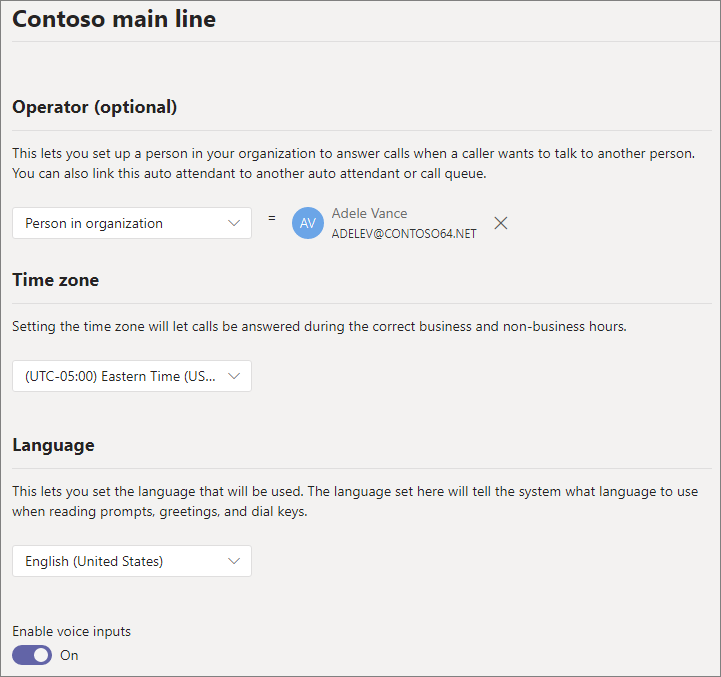
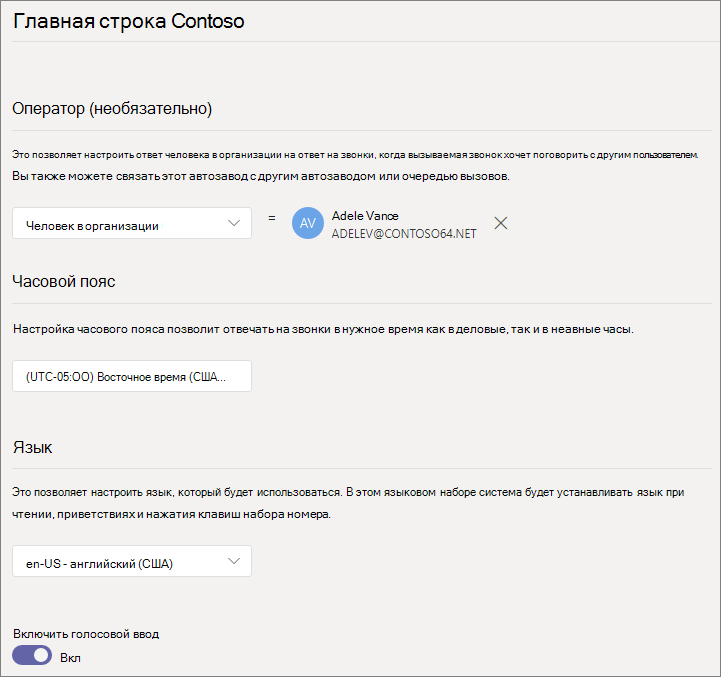
commit translated contents

diff --git a/Teams/country-and-region-availability-for-audio-conferencing-and-calling-plans/country-and-region-availability-for-audio-conferencing-and-calling-plans.md b/Teams/country-and-region-availability-for-audio-conferencing-and-calling-plans/country-and-region-availability-for-audio-conferencing-and-calling-plans.md
@@ -26,12 +26,12 @@ ms.custom:
 - LIL_Placement
 - seo-marvel-mar2020
 description: Узнайте, доступны ли в стране или регионе аудиоконференции, телефонная система, планы звонков, кредиты на связь, а также платные и бесплатные номера телефонов.
-ms.openlocfilehash: 3890fa79173dd6327830cc995bf41d79a0b2dde0
-ms.sourcegitcommit: 2c9ce2e3e4c3f1e3bfe317daa4fed5033d65876b
+ms.openlocfilehash: 099548bc9b88293dcb1fcc0acddd49ac295ab56e
+ms.sourcegitcommit: 112df406ae2c127cd9b5f717c1b43b11784b592d
 ms.translationtype: MT
 ms.contentlocale: ru-RU
-ms.lasthandoff: 06/10/2021
-ms.locfileid: "52873826"
+ms.lasthandoff: 06/22/2021
+ms.locfileid: "53069371"
 ---
 # <a name="country-and-region-availability-for-audio-conferencing-and-calling-plans"></a>Доступность аудиоконференций и планов звонков в различных странах и регионах
 
@@ -157,7 +157,7 @@ ms.locfileid: "52873826"
 > - [Венесуэла](availability-in-venezuela.md)
 > - [Вьетнам](availability-in-vietnam.md)
 
-Если вы ищете таблицу для всех стран и регионов, скачайте и сохраните таблицу Доступность облачных голосовых функций в странах и **[регионах.](https://download.microsoft.com/download/d/b/6/db6992c5-ec9a-4b02-8742-59df17dd90a7/country-and-region-availability-(v-05252021)-(en-us).xlsx)**
+Если вы ищете таблицу со всеми страными и регионами, скачайте и сохраните таблицу доступность облачных голосовых функций в странах и **[регионах.](https://download.microsoft.com/download/d/b/6/db6992c5-ec9a-4b02-8742-59df17dd90a7/country-and-region-availability-(v-06162021)-(en-us).xlsx)**
 
 ***
 
@@ -187,15 +187,15 @@ ms.locfileid: "52873826"
 В аудиоконференциях функция *"Позвонить* мне" используется для того, чтобы позволить другим людям присоединяться к собранию с телефонным звоном. С помощью списка в этой статье вы можете найти страну или регион и узнать, доступна ли эта функция.
 
 > [!CAUTION]
-> Звонок на бесплатные или бесплатные номера телефонов может быть невозможен, так как некоторые бесплатные номера работают только в пределах определенной страны или региона. Например, если вы звоните из США на бесплатный номер в Бразилии, звонок может быть не успешен, так как звонок был не из Бразилии или не из определенного региона в Бразилии. Возможность звонить на бесплатные номера зависит от ограничений на набор бесплатных номеров. К сожалению, мы не можем контролировать такое поведение, поэтому ваш опыт может зависеть от набра номера и ограничений на бесплатный номер.
+> Звонок на бесплатные или бесплатные номера телефонов может быть невозможен, так как некоторые бесплатные номера работают только в пределах определенной страны или региона. Например, если вы звоните из США на бесплатный номер в Бразилии, звонок может быть не успешным, так как звонок был не из Бразилии или не из определенного региона в Бразилии. Возможность звонить на бесплатные номера зависит от ограничений на набор бесплатных номеров. К сожалению, мы не можем контролировать такое поведение, поэтому ваш опыт может зависеть от набра номера и ограничений на бесплатный номер.
   
 Вы можете звонить из собрания в другую страну или регион в мире, который не указан ниже, с помощью кредитов [на связь.](../what-are-communications-credits.md) Для этих пользователей потребуется настроить кредиты на связь [для вашей организации.](../set-up-communications-credits-for-your-organization.md)
   
 ### <a name="phone-system"></a>Телефонная система
 
-С телефонная система для ответа на входящие звонки для вашей организации создаются автоответы и очереди звонков (с платным или бесплатным номером). При добавлении плана звонков для пользователей они могут использовать Skype для бизнеса для выполнения основных задач управления звонками, таких как выполнение и прием звонков, переключение звонков, отключение и отключение сигнала. **телефонная система** щелкнуть имя в адресной книге, Skype для бизнеса позвонит этому человеку. Чтобы принимать и принимать **звонки,** телефонная система используют свои мобильные устройства, гарнитуру с ноутбуком или компьютером или один из многих IP-телефонов, которые работают с Skype для бизнеса.
+С телефонная система для ответа на входящие звонки для вашей организации создаются автоответы и очереди звонков (с платным или бесплатным номером). При добавлении плана звонков пользователи могут использовать Skype для бизнеса для выполнения основных задач управления звонками, таких как размещение и прием звонков, переключение звонков, отключение и отключение сигнала. **телефонная система** щелкнуть имя в адресной книге, Skype для бизнеса позвонит этому человеку. Чтобы принимать и **принимать** звонки, телефонная система используют свои мобильные устройства, гарнитуру с ноутбуком или компьютером или один из многих IP-телефонов, которые работают с Skype для бизнеса.
 
-> Доступность платных телефонных номеров в некоторых из этих регионов может различаться в зависимости от времени и уровня их использования. Помимо получения номеров телефонов для отдельных пользователей, вы также можете искать и получать платные или бесплатные номера телефонов для таких служб, как аудиоконференции (для моста конференц-связи), автозаполнение и очереди звонков. Это так называемые сервисные номера. См. [Получение телефонных номеров службы](../getting-service-phone-numbers.md) для получения телефонных номеров. Своим пользователям после назначения плана звонков можно назначить номера телефонов, чтобы они могли совершать и принимать телефонные звонки. Чтобы найти эти телефонные номера, перейдите к разделу [Получение телефонных номеров для ваших пользователей](../getting-phone-numbers-for-your-users.md). См. также статью [Назначение, изменение или удаление номера телефона пользователя](../assign-change-or-remove-a-phone-number-for-a-user.md).
+> Доступность платных телефонных номеров в некоторых из этих регионов может различаться в зависимости от времени и уровня их использования. Помимо получения номеров телефонов для отдельных пользователей, вы также можете искать и получать платные или бесплатные номера телефонов для таких служб, как аудиоконференции (для моста конференций), автозаполнение и очереди звонков. Это так называемые сервисные номера. См. [Получение телефонных номеров службы](../getting-service-phone-numbers.md) для получения телефонных номеров. Своим пользователям после назначения плана звонков можно назначить номера телефонов, чтобы они могли совершать и принимать телефонные звонки. Чтобы найти эти телефонные номера, перейдите к разделу [Получение телефонных номеров для ваших пользователей](../getting-phone-numbers-for-your-users.md). См. также статью [Назначение, изменение или удаление номера телефона пользователя](../assign-change-or-remove-a-phone-number-for-a-user.md).
 
 [Тарифы для телефонной системы](https://products.office.com/skype-for-business/phone-system#Requirements)
 
@@ -206,7 +206,7 @@ ms.locfileid: "52873826"
 
 ### <a name="calling-plans"></a>Планы звонков
 
-Наряду с телефонной системой планы звонков позволяют пользователям совершать и принимать телефонные звонки. Сначала вы получите номер телефона пользователя (абонента), который не должен быть номером службы, и назначьте план звонков. Доступны два типа планов звонков: **внутренние звонки** и **внутренние и международные звонки**. См. [Телефонная система и тарифные планы](../calling-plan-landing-page.md) для более подробной информации.
+Наряду с телефонной системой планы звонков позволяют пользователям совершать и принимать телефонные звонки. Сначала вы получите номер телефона пользователя (абонента), который не должен быть номером службы, а затем назначьте план звонков. Доступны два типа планов звонков: **внутренние звонки** и **внутренние и международные звонки**. См. [Телефонная система и тарифные планы](../calling-plan-landing-page.md) для более подробной информации.
 
 Для получения информации о лицензировании вы также можете просмотреть [Лицензирование телефонных систем и Планов вызовов](../teams-add-on-licensing/microsoft-teams-add-on-licensing.md).
 
@@ -217,9 +217,9 @@ ms.locfileid: "52873826"
 
 Помимо получения номеров телефонов для отдельных пользователей, вы также можете искать и получать платные или бесплатные номера телефонов для таких служб, как аудиоконференции (для моста конференц-связи), автозаполнение и очереди звонков. Такие номера называют номерами служб.
   
-Ниже приведен список столиц и крупных городов, для которых можно получить платные номера служб, чтобы использовать их для аудиоконференций и планов звонков. Вы можете получить платные номера служб из этих мест с помощью **центра Skype для бизнеса администрирования**.
+Ниже приведен список столиц и крупных городов, для которых можно получить платные номера служб, чтобы использовать их для аудиоконференций и планов звонков. Вы можете получить платные номера служб из этих мест с **помощью Skype для бизнеса администрирования**.
   
-Если вы хотите получить платный или бесплатный номер службы, см. статью [Получение номеров телефонов службы.](../getting-service-phone-numbers.md) Если у вас уже есть платный или бесплатный номер службы, который вы хотите перенести от другого поставщика, см. управление номерами телефонов [для организации.](../manage-phone-numbers-for-your-organization/manage-phone-numbers-for-your-organization.md)
+Если вы хотите получить платный или бесплатный номер службы, см. статью [Получение номеров телефонов службы.](../getting-service-phone-numbers.md) Если у вас уже есть платный или бесплатный номер службы, который вы хотите перенести от другого поставщика услуг, см. управление номерами телефонов [для организации.](../manage-phone-numbers-for-your-organization/manage-phone-numbers-for-your-organization.md)
 
 Используйте раскрывающийся список в верхней части страницы для поиска страны или региона и доступных в них служб.
 

diff --git a/Teams/direct-routing-enable-users.md b/Teams/direct-routing-enable-users.md
@@ -16,12 +16,12 @@ appliesto:
 f1.keywords:
 - NOCSH
 description: Узнайте, как включить для Телефон (Майкрософт) прямой маршрутии Системы.
-ms.openlocfilehash: 858b9073106945d414c2dbe56a16e6cecd104ee7
-ms.sourcegitcommit: 01087be29daa3abce7d3b03a55ba5ef8db4ca161
+ms.openlocfilehash: 7d2b7c4b5d6268d1498a47537e0edbbf892198aa
+ms.sourcegitcommit: cae94cd5761baafde51aea1137e6d164722eead9
 ms.translationtype: MT
 ms.contentlocale: ru-RU
-ms.lasthandoff: 03/23/2021
-ms.locfileid: "51122223"
+ms.lasthandoff: 06/23/2021
+ms.locfileid: "53075372"
 ---
 # <a name="enable-users-for-direct-routing-voice-and-voicemail"></a>Включить для пользователей прямую маршрутику, голосовую и голосовую почту
 
@@ -29,11 +29,11 @@ ms.locfileid: "51122223"
 
 - Шаг 1. [Подключение SBC с Телефон (Майкрософт) и проверьте подключение](direct-routing-connect-the-sbc.md) 
 - **Шаг 2. Включить для пользователей прямую маршрутику, голосовую и голосовую почту**   (эта статья)
-- Шаг 3. [Настройка перенастройки голосовой маршрутии](direct-routing-voice-routing.md)
+- Шаг 3. [Настройка голосовой маршрутии](direct-routing-voice-routing.md)
 - Шаг 4. [Перевод чисел в альтернативный формат](direct-routing-translate-numbers.md) 
 
 
-Сведения о всех действиях, необходимых для настройки прямой маршрутии, см. в этой [ссылке.](direct-routing-configure.md)
+Сведения о всех действиях, необходимых для настройки прямой маршрутистики, см. в этой [ссылке.](direct-routing-configure.md)
 
 Когда вы будете готовы включить прямую маршрутику для пользователей, выполните следующие действия: 
 
@@ -47,15 +47,15 @@ ms.locfileid: "51122223"
 Существует два варианта создания нового пользователя в Microsoft 365 или Office 365. Однако корпорация Майкрософт рекомендует вашей организации выбрать один из вариантов, чтобы избежать проблем с маршрутией: 
 
 - Создайте пользователя в локальной службе Active Directory и синхронизируйте его с облаком. См. [интеграцию локального каталога с Azure Active Directory.](/azure/active-directory/connect/active-directory-aadconnect)
-- Создайте пользователя непосредственно в Microsoft 365 администрирования. См. добавление пользователей по отдельности или массово [в Microsoft 365 или Office 365 — справка для администраторов.](https://support.office.com/article/Add-users-individually-or-in-bulk-to-Office-365-Admin-Help-1970f7d6-03b5-442f-b385-5880b9c256ec) 
+- Создайте пользователя непосредственно в Центр администрирования Microsoft 365. См. добавление пользователей по отдельности или массово [в Microsoft 365 или Office 365 — справка для администраторов.](https://support.office.com/article/Add-users-individually-or-in-bulk-to-Office-365-Admin-Help-1970f7d6-03b5-442f-b385-5880b9c256ec) 
 
 Если развертывание Skype для бизнеса Online сосуществовает с локальной Skype для бизнеса 2015 или Lync 2010 или 2013, единственным вариантом является создание пользователя в локальной службе Active Directory и синхронизация пользователя с облаком (вариант 1). 
 
 Сведения о требованиях к лицензиям см. [в лицензировании](direct-routing-plan.md#licensing-and-other-requirements) и других требованиях в [области Планирование прямой маршрутии.](direct-routing-plan.md)
 
-## <a name="ensure-that-the-user-is-homed-online-and-phone-number-is-not-being-synced-from-on-premises-applicable-for-skype-for-business-server-enterprise-voice-enabled-users-being-migrated-to-teams-direct-routing"></a>Убедитесь, что пользователь находится в Сети и телефонные номера не синхронизируются из локальной сети (применимо для пользователей, Skype для бизнеса Server Корпоративная голосовая связь пользователей, переносимых на Teams Direct Routing)
+## <a name="ensure-that-the-user-is-homed-online-and-phone-number-is-not-being-synced-from-on-premises-applicable-for-skype-for-business-server-enterprise-voice-enabled-users-being-migrated-to-teams-direct-routing"></a>Убедитесь, что пользователь находится в Сети и телефонные номера не синхронизируются из локальной сети (применимо для пользователей Skype для бизнеса Server Корпоративная голосовая связь с поддержкой переноса в Teams Direct Routing)
 
-Прямая маршрутная маршрутия требует, чтобы пользователь был домашним в Интернете. Чтобы проверить это, обратитесь к параметру RegistrarPool, который должен иметь значение в infra.lync.com домене. Для параметра OnPremLineUriManuallySet также должно быть задано true. Для этого нужно настроить номер телефона и включить корпоративную голосовую и голосовую почту Skype для бизнеса PowerShell.
+Прямая маршрутная маршрутия требует, чтобы пользователь был домашним в Интернете. Чтобы проверить это, обратитесь к параметру RegistrarPool, который должен иметь значение в infra.lync.com домене. Для параметра OnPremLineUriManuallySet также должно быть задано true. Для этого нужно настроить номер телефона и включить корпоративную голосовую и голосовую почту с Skype для бизнеса PowerShell.
 
 1. Подключение сеанс Skype для бизнеса Online PowerShell.
 
@@ -71,7 +71,7 @@ ms.locfileid: "51122223"
    ```PowerShell
    Set-CsUser -Identity "<User name>" -LineUri $null -EnterpriseVoiceEnabled $False -HostedVoiceMail $False
     ``` 
-   После синхронизации изменений с Office 365 ожидаемым `Get-CsOnlineUser -Identity "<User name>" | fl RegistrarPool,OnPremLineUriManuallySet,OnPremLineUri,LineUri` выходом будут:
+   После синхронизации изменений с Office 365 ожидаемым `Get-CsOnlineUser -Identity "<User name>" | fl RegistrarPool,OnPremLineUriManuallySet,OnPremLineUri,LineUri` выходом будет:
 
    ```console
    RegistrarPool                        : pool.infra.lync.com
@@ -99,11 +99,11 @@ ms.locfileid: "51122223"
     ```PowerShell
     Set-CsUser -Identity "spencer.low@contoso.com" -OnPremLineURI tel:+14255388797 -EnterpriseVoiceEnabled $true -HostedVoiceMail $true
     ```
-    Если у пользователей "Низкий" и "Стейси Квинн" одинаковые базовые номера с уникальными расширениями, введите следующее:
+    Если у пользователей "Низкий уровень" и "Стейси Квинн" одинаковые базовые номера с уникальными расширениями, введите следующее:
     
     ```PowerShell
-    Set-CsUser -Identity "spencer.low@contoso.com" -OnPremLineURI tel:+14255388701;ext=1001 -EnterpriseVoiceEnabled $true -HostedVoiceMail $true
-    Set-CsUser -Identity "stacy.quinn@contoso.com" -OnPremLineURI tel:+14255388701;ext=1002 -EnterpriseVoiceEnabled $true -HostedVoiceMail $true
+    Set-CsUser -Identity "spencer.low@contoso.com" -OnPremLineURI "tel:+14255388701;ext=1001" -EnterpriseVoiceEnabled $true -HostedVoiceMail $true
+    Set-CsUser -Identity "stacy.quinn@contoso.com" -OnPremLineURI "tel:+14255388701;ext=1002" -EnterpriseVoiceEnabled $true -HostedVoiceMail $true
     ```
 
     Рекомендуется, но не обязательно, чтобы используемый номер телефона был настроен как полный номер телефона E.164 с кодом страны. Поддерживается настройка номеров телефонов с расширениями, которые будут использоваться для искомых пользователей, если при подступе к базовому номеру возвращается несколько результатов. Это позволяет компаниям настраивать номера телефонов с одинаковым базовым номером и уникальными расширениями. Для успешного подстроки в приглашении должно быть включено полное число с расширением:
@@ -117,7 +117,7 @@ ms.locfileid: "51122223"
 
 ## <a name="configuring-sending-calls-directly-to-voicemail"></a>Настройка отправки звонков непосредственно на голосовую почту
 
-Прямая маршрутия позволяет прекратить звонок пользователю и отправить его непосредственно в голосовую почту пользователя. Если вы хотите отправить звонок непосредственно в голосовую почту, вложите непрозрачной=app:voicemail в заглавный URI запроса. Например, "sip:user@yourdomain.com;opaque=app:voicemail". В этом случае Teams не получит уведомление о вызове, звонок будет напрямую подключен к голосовой почте пользователя.
+Прямая маршрутия позволяет прекратить звонок и отправить его непосредственно в голосовую почту пользователя. Если вы хотите отправить звонок непосредственно в голосовую почту, вложите непрозрачной=app:voicemail в заглавный URI запроса. Например, "sip:user@yourdomain.com;opaque=app:voicemail". В этом случае Teams не получит уведомление о вызове, звонок будет напрямую подключен к голосовой почте пользователя.
 
 ## <a name="assign-teams-only-mode-to-users-to-ensure-calls-land-in-microsoft-teams"></a>Назначьте Teams режим только пользователям, чтобы обеспечить доступ к звонкам Microsoft Teams
 

diff --git a/Teams/reset-the-audio-conferencing-pin-in-teams.md b/Teams/reset-the-audio-conferencing-pin-in-teams.md
@@ -22,18 +22,18 @@ ms.custom:
 - Audio Conferencing
 - seo-marvel-apr2020
 description: Узнайте, как сбросить ПИН-код аудиоконференции пользователя в Microsoft Teams и узнать важные сведения о ПИН-кодах.
-ms.openlocfilehash: 7ea380fbeb722337eaec598823b12dbe18f49918
-ms.sourcegitcommit: 01087be29daa3abce7d3b03a55ba5ef8db4ca161
+ms.openlocfilehash: ece69ec231408cc860f2fad803d92d22feaca781
+ms.sourcegitcommit: cae94cd5761baafde51aea1137e6d164722eead9
 ms.translationtype: MT
 ms.contentlocale: ru-RU
-ms.lasthandoff: 03/23/2021
-ms.locfileid: "51117637"
+ms.lasthandoff: 06/23/2021
+ms.locfileid: "53075382"
 ---
 # <a name="reset-the-audio-conferencing-pin-in-microsoft-teams"></a>Сброс ПИН-кода аудиоконференций в Microsoft Teams
 
 ПИН-код — это код, который состоит из чисел, которые создаются для Microsoft Teams пользователей, которые могут аудиоконференцию. ПИН-коды аудиоконференций используют организаторы собраний для подтверждения статуса организатора собрания и запуска собрания по телефону. Если собрание начинается Microsoft Teams приложением, ПИН-код не требуется. Если пользователь забыл свой ПИН-код, и ему не удается найти сообщение электронной почты, отправленное ему при предоставлении возможности участия в аудиоконференциях, администратор может выполнить сброс его ПИН-кода, или же он может изменить свой ПИН-код самостоятельно.
   
-Собрания можно начать, когда пользователь, авторификация, присоединяется с помощью Microsoft Teams или когда организатор присоединяется с помощью ПИН-кода по телефону. Если для участия в телефонном собрании требуется ПИН-код, то все пользователи, подключившиеся к этому собранию по телефону, перенаправляются в зал ожидания и могут прослушивать музыку до начала собрания. Если организатор собрания не запрашивает ПИН-код при открытии собрания по телефону, то при подключении к собранию участникам не потребуется вводить ПИН-код.
+Собрания можно начать, когда пользователь, авторификация, присоединяется с помощью Microsoft Teams или когда организатор присоединяется с помощью ПИН-кода по телефону. Когда для начала собрания требуется ПИН-код, пользователи, присоединившиеся по телефону, помещаются в "в" и будут прослушивать музыку на удержании, пока организатор не допустит их. Если организатор собрания не запрашивает ПИН-код при открытии собрания по телефону, то при подключении к собранию участникам не потребуется вводить ПИН-код.
 
 ## <a name="reset-a-users-pin"></a>Сброс ПИН-кода пользователя
 
@@ -60,11 +60,11 @@ ms.locfileid: "51117637"
 
 ## <a name="what-else-should-you-know-about-pins"></a>Что еще необходимо знать о ПИН-кодах?
 
-- В целях безопасности ПИН-код отображается только один раз администратору при сбросе ПИН-кода. После сброса ПИН-кода администратором он будет указан в списке *********.
+- В целях безопасности ПИН-код отображается только один раз администратору при сбросе ПИН-кода. После сброса ПИН-кода администратором ОН будет указан в списке *********.
     
 - По умолчанию автоматическое отправка сообщений электронной почты пользователям включено, и пользователи получают электронное письмо со своим ПИН-кодом, когда им будет включена аудиоконференция или при сбросе ПИН-кода. Но если вы отключили автоматическое отправку сообщений электронной почты, пользователю не будет отправлено сообщение об сбросе ПИН-кода, и вам придется вручную отправлять сведения о ПИН-коде пользователю.
     
-- Когда собрание начинается, к нему автоматически присоединяются все пользователи в " "в"." Например, если два участника попытаются присоединиться к собранию до его начала, они будут помещаются в "lobby" и будут прослушивать музыку на удержании, а когда организатор собрания присоединяется с помощью ПИН-кода по телефону, собрание начнется, а участники в "вестибюле" присоединятся к собранию.
+- Когда собрание начинается, к нему автоматически присоединяются все пользователи в " "в"." Например, если два участника попытаются присоединиться к собранию до его начала, они будут помещаются в "lobby" и будут прослушивать музыку на удержании, а когда организатор собрания присоединяется с помощью ПИН-кода по телефону, собрание начнется, а участники из "висячего" присоединятся к собранию.
     
 - По умолчанию анонимным звонителям не разрешается начать собрание.
     

diff --git a/Teams/limits-specifications-teams.md b/Teams/limits-specifications-teams.md
@@ -19,12 +19,12 @@ search.appverid: MET150
 appliesto:
 - Microsoft Teams
 ms.custom: seo-marvel-apr2020
-ms.openlocfilehash: 3f15b2ad9fce413602ed531067ed7e2b280ed122
-ms.sourcegitcommit: 90615674e9703aa5ea32be64ab3638aa30e83127
+ms.openlocfilehash: 7bc57372526e231e4f2111c0dd2cc00783598cf3
+ms.sourcegitcommit: 112df406ae2c127cd9b5f717c1b43b11784b592d
 ms.translationtype: HT
 ms.contentlocale: ru-RU
-ms.lasthandoff: 06/02/2021
-ms.locfileid: "52717730"
+ms.lasthandoff: 06/22/2021
+ms.locfileid: "53069307"
 ---
 # <a name="limits-and-specifications-for-microsoft-teams"></a>Ограничения и спецификации для Microsoft Teams
 
@@ -156,7 +156,7 @@ ms.locfileid: "52717730"
 > [!IMPORTANT]
 > **Повышение предельных значений для трансляций Microsoft 365**
 >
-> **Чтобы продолжить поддержку потребностей наших клиентов, до 30 июня 2021 года, временное увеличение лимитов на прямые трансляции продлевается, включая**:
+> **Чтобы продолжить поддерживать потребности наших клиентов, временное увеличение лимитов на прямые трансляции продлевается до 31 декабря 2021 года, включая**:
 >
 >- Поддержка событий для до 20 000 участников
 >- 50 одновременных трансляций в клиенте
